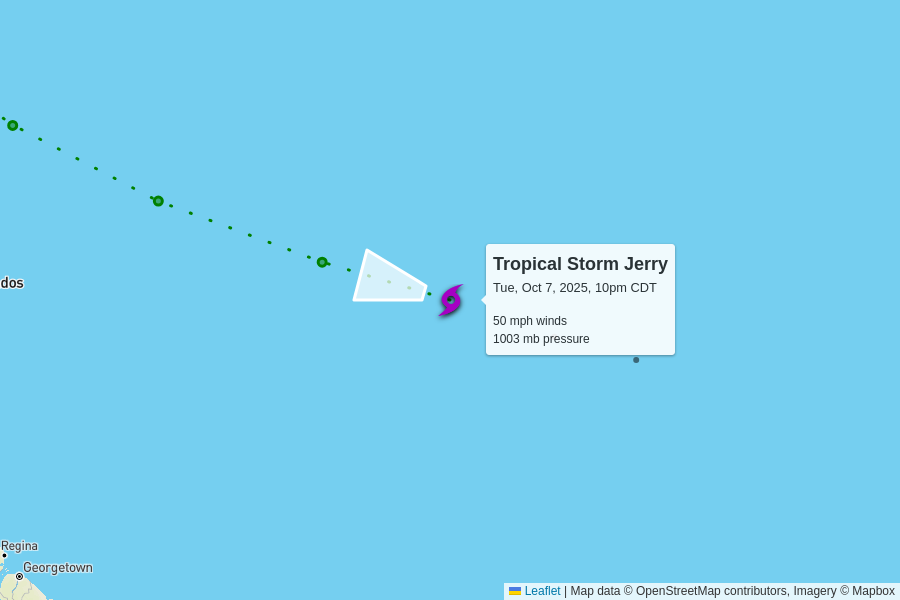
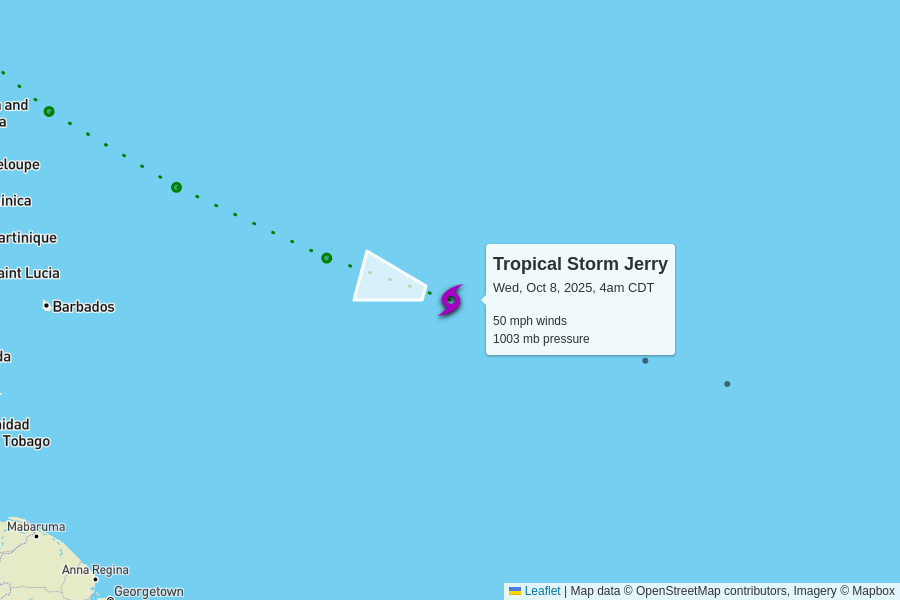
automatic update

diff --git a/docs/index.html b/docs/index.html
@@ -102,7 +102,7 @@
         <td colspan="6" class="storm category-0" >
           <h2>
             Tropical Storm Jerry
-            <p class="updated">last updated <span data-time>2025-10-08T03:00:00.000Z</span></p>
+            <p class="updated">last updated <span data-time>2025-10-08T09:00:00.000Z</span></p>
           </h2>
         </td>
       </tr>
